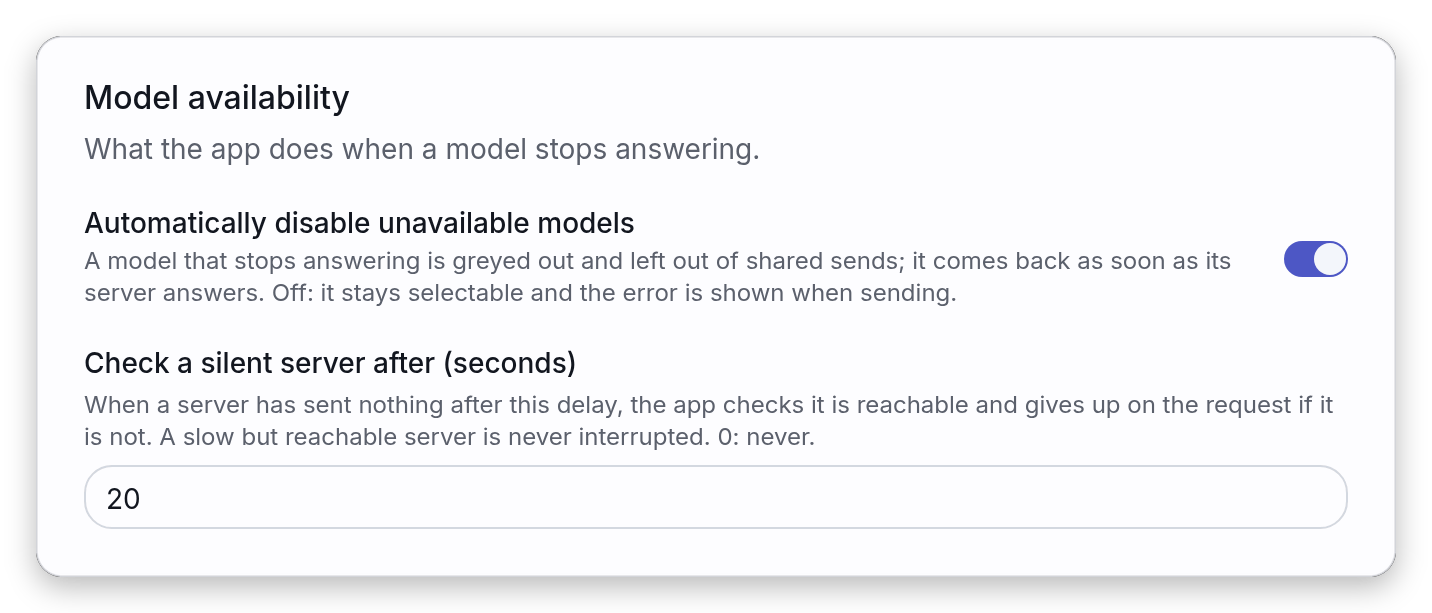
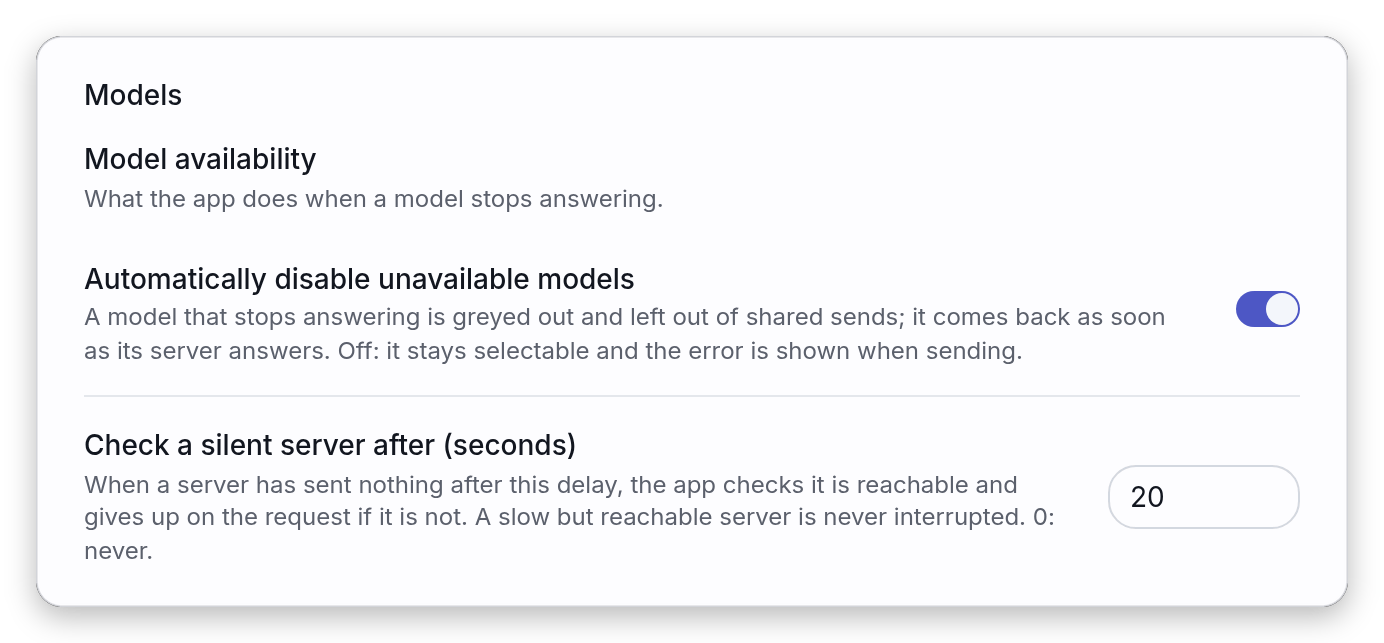
DOC: Refresh the settings screenshots for the new layout

diff --git a/docs/mcp.md b/docs/mcp.md
@@ -28,7 +28,7 @@ wrench is not shown, so the last three places do not exist there and no MCP tool
 
 <picture>
     <source media="(prefers-color-scheme: dark)" srcset="images/dark/mcp-servers-short.png">
-    <img alt="Settings, MCP servers page: three MCP servers, Product docs (Connected), Metrics (CORS blocked, with the headers the server must send) and Tickets (Authentication, HTTP 401)" src="images/light/mcp-servers-short.png" width="716">
+    <img alt="Settings, MCP servers page: three MCP servers, Product docs (Connected), Metrics (CORS blocked) and Tickets (Authentication)" src="images/light/mcp-servers-short.png" width="692">
 </picture>
 
 ## Declaring servers in `config.json`
@@ -95,7 +95,7 @@ ask for your approval like any other tool, unless you allow them." When no serve
 
 <picture>
     <source media="(prefers-color-scheme: dark)" srcset="images/dark/mcp-add.png">
-    <img alt="The New server form: Name, Identifier, Address, Transport (Automatic), Bearer token revealed, with a crossed-eye icon button (Hide the token) and a copy icon button, Other headers (JSON, not masked), and the Cancel and Save buttons" src="images/light/mcp-add.png" width="716">
+    <img alt="The New server form: Name, Identifier, Address, Transport (Automatic), Bearer token revealed, with a crossed-eye icon button (Hide the token) and a copy icon button, Other headers (JSON, not masked), and the Cancel and Save buttons" src="images/light/mcp-add.png" width="692">
 </picture>
 
 | Field                                | What to enter                                                                                                                                                                                                                                                                                               |
@@ -168,11 +168,12 @@ its detail.
 
 Under the name of the server, a coloured pill says where the connection stands. The address follows
 in monospace. For any state other than **Connected**, a box under the address explains the state;
-for a failure it also repeats, in monospace, the message the connection reported.
+for a failure it also repeats, in monospace, the message the connection reported. In the list below, the pill sits at the right of each row; the
+box and the message are in the detail of the server.
 
 <picture>
     <source media="(prefers-color-scheme: dark)" srcset="images/dark/mcp-servers.png">
-    <img alt="Five MCP servers in five states: Product docs (Connected, Tools (4)), Metrics (CORS blocked), Tickets (Authentication, HTTP 401), Wiki (Not found, HTTP 404) and Legacy search (Off, switched off)" src="images/light/mcp-servers.png" width="716">
+    <img alt="Five MCP servers in five states: Product docs (Connected), Metrics (CORS blocked), Tickets (Authentication, HTTP 401), Wiki (Not found, HTTP 404) and Legacy search (Off, switched off)" src="images/light/mcp-servers.png" width="692">
 </picture>
 
 | Pill               | What it says                                                                                                                                                                                                                                                                                                                                                                                                              |
@@ -230,7 +231,7 @@ connection and connects from scratch. The button spins while the listing runs.
 
 <picture>
     <source media="(prefers-color-scheme: dark)" srcset="images/dark/mcp-tools.png">
-    <img alt="The detail of a server with its tools expanded, listing four tools with an approval select each (Always allow, Ask each time, Ask each time, Disabled), three marked Read-only and one marked Destructive, each followed by 'declared by the server, not verified'" src="images/light/mcp-tools.png" width="716">
+    <img alt="The Tools (4) block of a server detail, expanded: four tools with an approval select each (Always allow, Ask each time, Ask each time, Hidden from the model), three marked Read-only and one marked Destructive, each followed by 'declared by the server, not verified'" src="images/light/mcp-tools.png" width="692">
 </picture>
 
 Each tool of the list shows:
@@ -360,7 +361,7 @@ To do the same from the browser:
 
 <picture>
     <source media="(prefers-color-scheme: dark)" srcset="images/dark/mcp-scope.png">
-    <img alt="Advanced settings of a model in the Models page: Tool calling set to Yes, and the MCP servers block with Every enabled server switched off, Product docs and Metrics ticked and Tickets not ticked" src="images/light/mcp-scope.png" width="690">
+    <img alt="Advanced settings of a model in the Models page: Tool calling set to Yes, and the MCP servers block with Every enabled server switched off, Product docs and Metrics ticked and Tickets not ticked" src="images/light/mcp-scope.png" width="692">
 </picture>
 
 A few details of the block:

diff --git a/README.md b/README.md
@@ -155,7 +155,7 @@ rebuild). Each entry describes a model and the endpoint serving it. The in-app
 
 <picture>
     <source media="(prefers-color-scheme: dark)" srcset="docs/images/dark/config.png">
-    <img alt="The Models page in Settings, editing a model entry" src="docs/images/light/config.png" width="716">
+    <img alt="The Models page in Settings, editing a model entry" src="docs/images/light/config.png" width="692">
 </picture>
 
 `public/config.json` is gitignored (it holds deployment-specific endpoints):
@@ -329,7 +329,7 @@ approval (Ask each time, Always allow or Hidden from the model; the default is A
 
 <picture>
     <source media="(prefers-color-scheme: dark)" srcset="docs/images/dark/mcp-servers-short.png">
-    <img alt="MCP servers page in Settings: one connected, one blocked by CORS with the headers to add, one refusing the credentials" src="docs/images/light/mcp-servers-short.png" width="716">
+    <img alt="MCP servers page in Settings: one server connected, one blocked by CORS, one refusing the credentials" src="docs/images/light/mcp-servers-short.png" width="692">
 </picture>
 
 The key table, the CORS headers a server must send, the reverse-proxy recipes (Caddy, nginx), how secrets are

diff --git a/docs/compare.md b/docs/compare.md
@@ -350,7 +350,7 @@ app does when a model stops answering."
 
 <picture>
     <source media="(prefers-color-scheme: dark)" srcset="images/dark/unavailable-settings.png">
-    <img alt="Settings, Models page, Model availability group with the Automatically disable unavailable models switch on and the silent server delay set to 20" src="images/light/unavailable-settings.png" width="716">
+    <img alt="Settings, Models page, Model availability group with the Automatically disable unavailable models switch on and the silent server delay set to 20" src="images/light/unavailable-settings.png" width="692">
 </picture>
 
 | Setting                                      | Default | Range             | Effect                                                                                                                                                                                                                                                                               |

diff --git a/docs/tools.md b/docs/tools.md
@@ -288,7 +288,7 @@ conversations, the limits, the providers and the approval of each tool.
 
 <picture>
     <source media="(prefers-color-scheme: dark)" srcset="images/dark/tool-settings.png">
-    <img alt="The Tools page of the settings, with tools enabled for new conversations and Current time set to Always allow, which are not the defaults: Tool calling options, the Clock provider with its approval, an MCP server and the Reset approvals button" src="images/light/tool-settings.png" width="716">
+    <img alt="The Tools page of the settings, with tools enabled for new conversations and Current time set to Always allow, which are not the defaults: Maximum steps, Default approval, Result size limit, the Clock provider with its approval and the Reset approvals button" src="images/light/tool-settings.png" width="692">
 </picture>
 
 In this picture, tools are enabled for new conversations and "Current time" is set to "Always

diff --git a/docs/models.md b/docs/models.md
@@ -603,7 +603,7 @@ everything else empty, off or on **Auto** (note that a `type` missing from a han
 
 <picture>
     <source media="(prefers-color-scheme: dark)" srcset="images/dark/config.png">
-    <img alt="The Models page in Settings: a model entry named claude as a form, with Identifier, Model id, Display name, Short name, Base URL, Server type, API key, the Streaming and Send context switches and the folded Advanced settings row" src="images/light/config.png" width="716">
+    <img alt="The Models page in Settings: a model entry named claude as a form, with Identifier, Model id, Display name, Short name, Base URL, Server type, API key, the Streaming and Send context switches and the folded Advanced settings row" src="images/light/config.png" width="692">
 </picture>
 
 The detail of a model shows the entry as a form. The screenshot shows a `claude` entry modelled on the Anthropic recipe above, with a different
